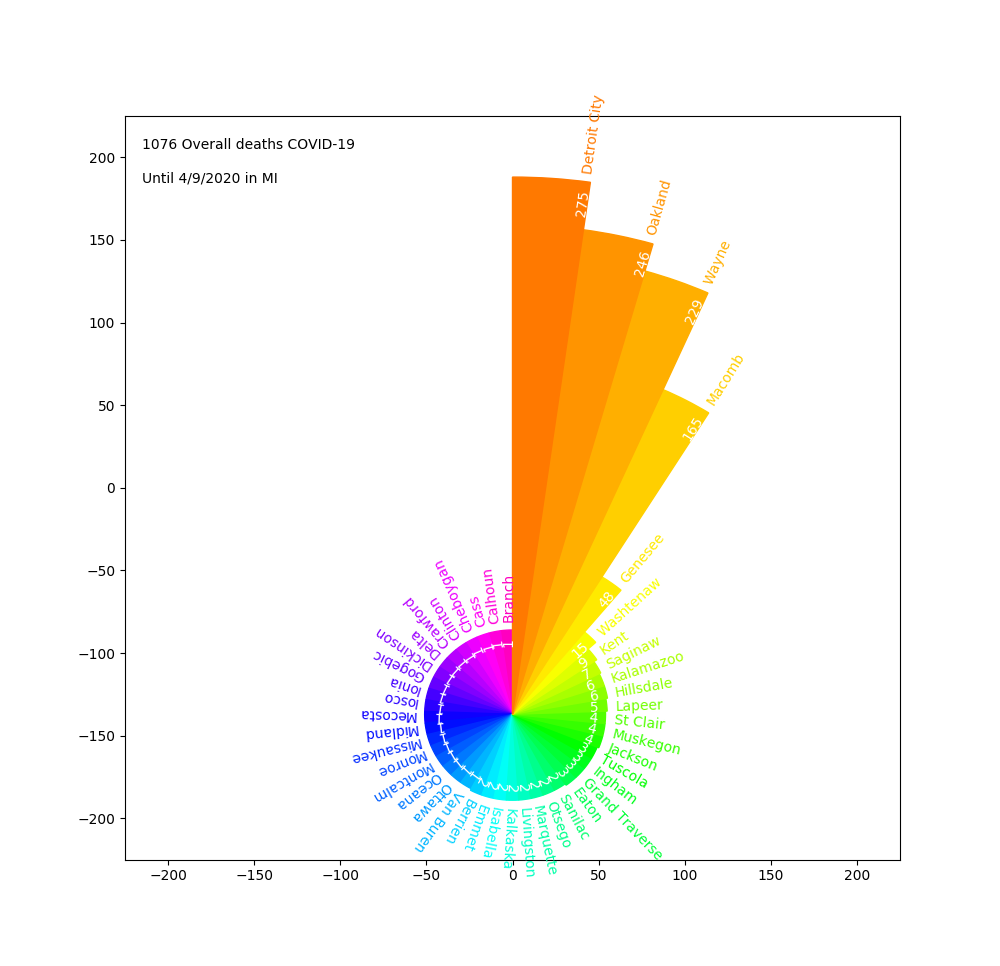
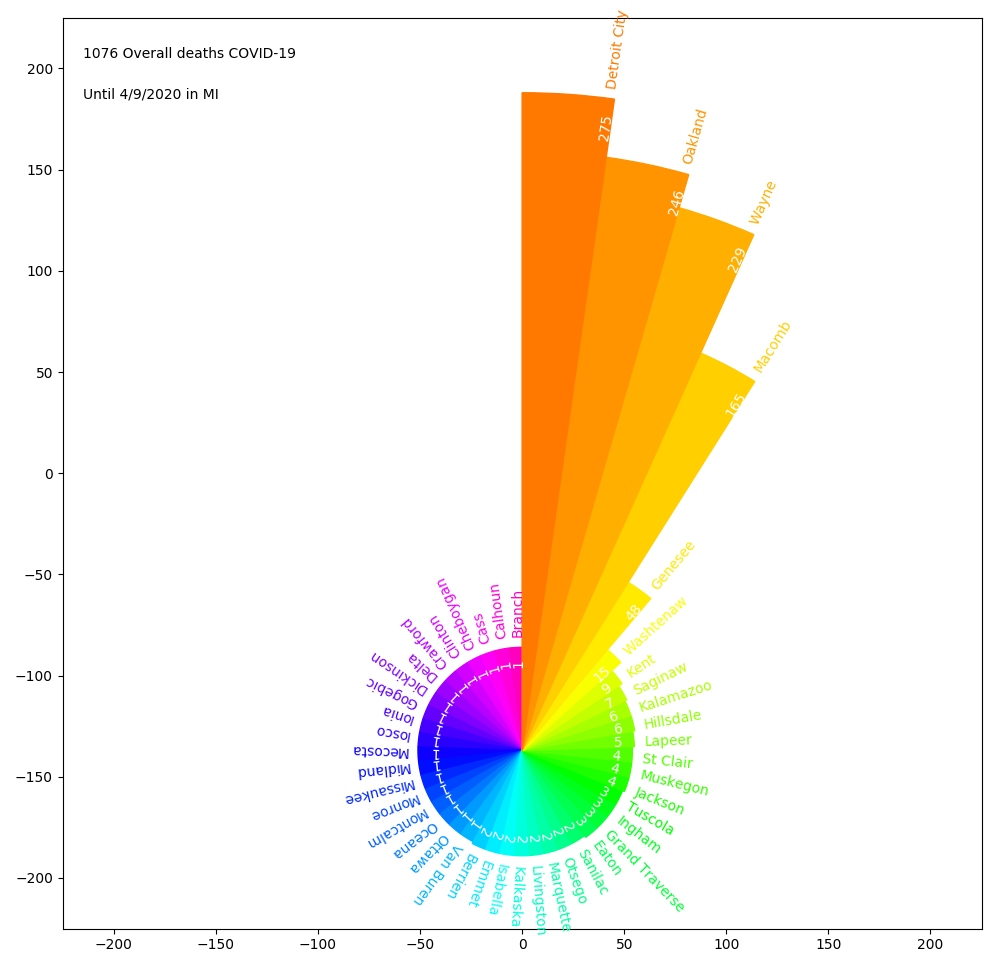
decrease magins of plots

diff --git a/virusviz18.py b/virusviz18.py
@@ -527,12 +527,13 @@ class runVirusViz(object):
             plt.text(-l_max_v+5, l_max_v-30, '%d Daily confirmed COVID-19'%(n_total))
             plt.text(-l_max_v+5, l_max_v-60, 'On '+self.now_date + ' in MI')
         elif type_data ==2:
-            plt.text(-l_max_v+10, l_max_v-40, '%d Overall confirmed COVID-19'%(n_total))
-            plt.text(-l_max_v+10, l_max_v-80, 'Until '+self.now_date + ' in MI')
+            plt.text(-l_max_v+10, l_max_v-140, '%d Overall confirmed COVID-19'%(n_total))
+            plt.text(-l_max_v+10, l_max_v-240, 'Until '+self.now_date + ' in MI')
         elif type_data ==3:
             plt.text(-l_max_v+10, l_max_v-20, '%d Overall deaths COVID-19'%(n_total))
             plt.text(-l_max_v+10, l_max_v-40, 'Until '+self.now_date + ' in MI')
         plt.axis([-l_max_v, l_max_v, -l_max_v, l_max_v])
+        fig.tight_layout()      
         plt.show()
         if(type_data==1):
             fig.savefig(self.state_dir + 'results/mi_county'+self.name_file+'_daily.png')
@@ -621,6 +622,7 @@ class runVirusViz(object):
         plt.ylabel('Confirmed Daily New Cases')
         plt.title("COVID-19 Prediction of daily new cases in Michigan")
         plt.xticks(rotation=45)
+        fig.tight_layout()      
         plt.show()
         if(self.isNameOnToday(self.name_file)):
             fig.savefig(self.state_dir + 'results/mi_county20200000_predict.png')
@@ -653,9 +655,12 @@ class runVirusViz(object):
         landColor, coastColor, oceanColor, popColor, countyColor = '#eedd99','#93ccfa','#93ccfa','#ffee99','#ff0000'
 
         fig = plt.figure()
+        fig.set_figheight(11)
+        fig.set_figwidth(11)
+        #plt.gcf().set_size_inches(11,11)
         ax = fig.add_subplot(111)
-        s = 380000     
-        lat_1, lon_1 = 44.889370, -86.577335  #44.888371, -86.567335
+        s = 370000     
+        lat_1, lon_1 = 44.938371, -86.067335  #44.888371, -86.567335
         m = Basemap(projection='ortho',lon_0=lon_1,lat_0=lat_1,resolution='l',llcrnrx=-s,llcrnry=-s,urcrnrx=s,urcrnry=s)
         m.drawmapboundary(fill_color=oceanColor) # fill in the ocean
 
@@ -687,9 +692,9 @@ class runVirusViz(object):
         for a_county in l_counties:	
             lat2, lon2 = float(a_county[8]), float(a_county[9])
             x, y = m(lon2, lat2) 
-            plt.text(x, y, a_county[3],fontsize=5,fontweight='bold', ha='center',va='center',color='k')
+            plt.text(x, y, a_county[3],fontsize=5, ha='center',va='center',color='k')
         #
-        plt.gcf().set_size_inches(12,12)      
+        fig.tight_layout()      
         plt.show()
   
     ## exit node
